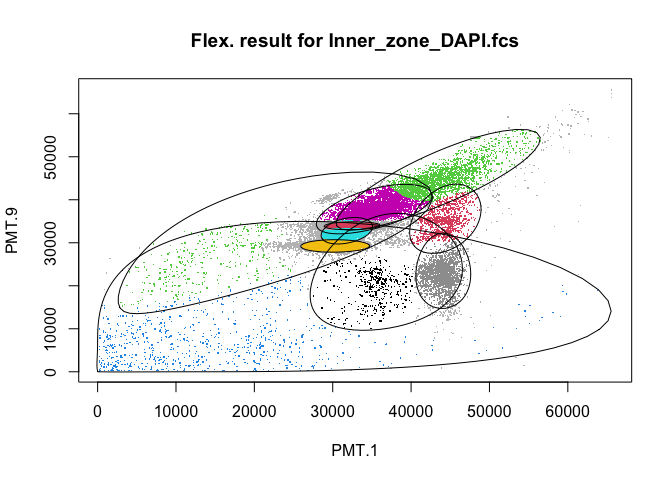
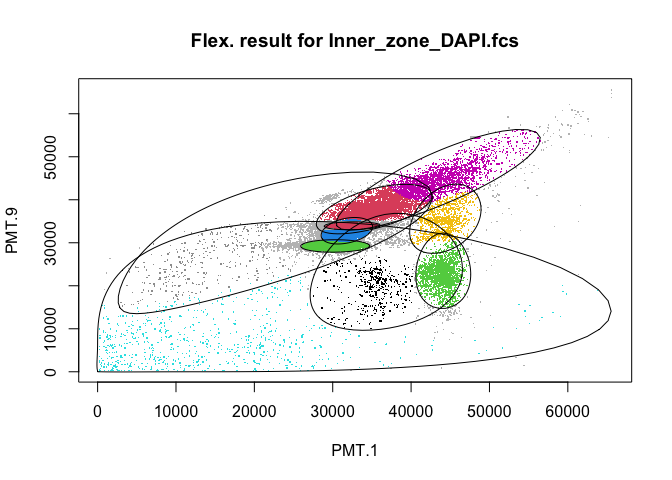
correct Monte Carlo Integration

diff --git a/workflow/04a-GMM-for-Z-project.md b/workflow/04a-GMM-for-Z-project.md
@@ -1,6 +1,6 @@
 04a-GMM for Z-project
 ================
-Compiled at 2023-11-15 21:34:49 UTC
+Compiled at 2023-11-19 18:54:07 UTC
 
 ``` r
 here::i_am(paste0(params$name, ".Rmd"), uuid = "9d6a84ea-ebe8-4073-bfe1-9e2529a9d667")
@@ -312,42 +312,53 @@ GMMroc <- function(data,gating_data,dimension,CI){
   
   data1 <- maha
   
-  roc.points <- data.frame(cell=NA,volume=NA)
+  #randomly sample points
+  set.seed(123)
+  num_points <- 100000
   
+  random_points <- runif(num_points*dimension,min=200,max=65535) %>% round(2)
+  random_data <- matrix(random_points,ncol=dimension,nrow=num_points)
+  
+  #maha matrics for random points
+  random_maha <- matrix(NA,nrow=num_points,ncol=n_clusters)
+  for (i in 1:num_points){
+    for(j in 1:n_clusters){
+      random_maha[i,j] <- mahalanobis(random_data[i,],mu[,j],sigma[[j]])
+    }
+  }
+  
+  random_maha <- as.data.frame(random_maha)
+  roc.points <- data.frame()
+  
+  #performance at diff. alpha
   for (alpha in CI){
     threshold <- qinv.chisq(alpha,df=dimension)
-  
+    
+    # cell
     for (cell in 1:ncells){
       rv <- data1[cell,1:ncol(data1)-1]
       if(all(rv>threshold)) {data1$Cluster[cell] <- NA}
       else {data1$Cluster[cell] <- which.min(rv)}
     }
   
-    result <- base::table(data1$Cluster) %>% as.data.frame()
-    sum1 <- sum(result$Freq)
+    result1 <- base::table(data1$Cluster) %>% as.data.frame()
+    sum1 <- sum(result1$Freq)
+    
+    # volume
+    for (cell in 1:num_points){
+      rv <- random_maha[cell,1:ncol(random_maha)-1]
+      if(all(rv>threshold)) {random_maha$Cluster[cell] <- NA}
+      else {random_maha$Cluster[cell] <- which.min(rv)}
+    }
   
-    eigen <- matrix(NA,nrow=length(sigma),ncol=dimension)
-    for (i in 1:length(sigma)){
-      eigen[i,] <- eigen(sigma[[i]])$values
-    }
-    eigen <- eigen[-1,]
+    result2 <- base::table(random_maha$Cluster) %>% as.data.frame()
+    sum2 <- sum(result2$Freq)/num_points*(65535-200)^dimension
     
     
-    if(length(sigma)>2){
-    area <- matrix(NA,nrow=nrow(eigen),ncol=1)
-    for (i in 1:nrow(eigen)){
-      area[i,1] <- pi*sqrt(eigen[i,1]*eigen[i,2])*threshold}
-    }
-    else {area <- pi*sqrt(eigen[1]*eigen[2])*threshold}
-    
-    
-    area <- as.data.frame(area)
-    sum2 <- sum(area)
-    sum.roc <- cbind(cell=sum1,volume=sum2)
-    
-    roc.points <- rbind(roc.points,sum.roc)
+    results <- cbind(cell=sum1,volume=sum2) %>% as.data.frame()
+    roc.points <- rbind(roc.points,results)
   }
-  result <- list(maha.matrix=maha,roc.table=roc.points)
+  result <- list(maha.matrix=data1,roc.table=roc.points)
   return(result)
 }
 ```
@@ -973,9 +984,7 @@ for (i in 1:5){
 ### for points
 
 ``` r
-flowClust_roc <- function(data,gating_data,dimension,alpha){
-  
-  w <- gating_data@w
+flowClust_roc <- function(data,gating_data,dimension,CI){
   
   # Box-Cox trans
   lambda <- gating_data@lambda
@@ -1004,7 +1013,7 @@ flowClust_roc <- function(data,gating_data,dimension,alpha){
     }
   }
   
-  data1 <- maha_data[,2:n_clusters] %>% as.data.frame()
+  data1 <- as.data.frame(maha_data)
   
   #randomly sample points
   set.seed(123)
@@ -1014,33 +1023,42 @@ flowClust_roc <- function(data,gating_data,dimension,alpha){
   random_boxcox <- flowClust::box(random_points,lambda) %>% round(2)
   random_data <- matrix(random_boxcox,ncol=dimension,nrow=num_points)
   
-  random_value <- data.frame()
-  weight_pdf <- c()
-  
-  #compute pdf value of mix-t
+  #maha matrics for random points
+  random_maha <- matrix(NA,nrow=num_points,ncol=n_clusters)
   for (i in 1:num_points){
-    for (j in 1:length(sigma)){
-      pdf <- mvtnorm::dmvt(random_data[i,],delta=mu[,j],sigma=sigma[[j]],df=4,log=F)
-      weight_pdf[j] <- pdf*w[j]
-      }
-    random_value[i,1] <- sum(weight_pdf)
+    for(j in 1:n_clusters){
+      random_maha[i,j] <- mahalanobis(random_data[i,],mu[,j],sigma[[j]])
     }
+  }
   
-  adjust_value <- random_value*(max(random_boxcox)-min(random_boxcox))^dimension
-  roc.points <- data.frame(cell=NA,volume=NA)
+  random_maha <- as.data.frame(random_maha)
+  roc.points <- data.frame()
   
   #performance at diff. alpha
-  for (alpha in c(0.1,0.9)){
+  for (alpha in CI){
     threshold <- dimension*qf(alpha,dimension,4)
     
-    # volume
-    inside_distribution <- c()
-    for (i in 1:num_points){
-      if(adjust_value[i,1]>threshold){inside_distribution[i]<-0}
-      else {inside_distribution[i]<-1}
+    # cell
+    for (cell in 1:ncells){
+      rv <- data1[cell,1:ncol(data1)-1]
+      if(all(rv>threshold)) {data1$Cluster[cell] <- NA}
+      else {data1$Cluster[cell] <- which.min(rv)}
     }
-    sum1 <- trunc(sum(inside_distribution)/num_points*ncells)
-    sum2 <- sum(inside_distribution)/num_points*(65535-200)^dimension
+  
+    result1 <- base::table(data1$Cluster) %>% as.data.frame()
+    sum1 <- sum(result1$Freq)
+    
+    # volume
+    for (cell in 1:num_points){
+      rv <- random_maha[cell,1:ncol(random_maha)-1]
+      if(all(rv>threshold)) {random_maha$Cluster[cell] <- NA}
+      else {random_maha$Cluster[cell] <- which.min(rv)}
+    }
+  
+    result2 <- base::table(random_maha$Cluster) %>% as.data.frame()
+    sum2 <- sum(result2$Freq)/num_points*(65535-200)^dimension
+    
+    
     results <- cbind(cell=sum1,volume=sum2) %>% as.data.frame()
     roc.points <- rbind(roc.points,results)
   }
@@ -1056,13 +1074,9 @@ DAPI_fC_fix_roc <- list()
 for (i in 1:5){
   name <- names(DAPI)[i]
   data0 <- DAPI[[name]]@exprs[,c(11,27)]
-  gating_data <- DAPI_fC_flex[[name]]
+  gating_data <- DAPI_fC_fix[[name]]
   alpha <- seq(0.01,0.99,by=0.01)
-  DAPI_fC_flex_roc[[name]] <- flowClust_roc(data0,gating_data,2,alpha)
-  
-  #trans=0: no box-cox
-  #test <- flowClust(DAPI[[i]], varNames = c("PMT.1","PMT.9"), K=9,trans = 0)
-  #DAPI_fC_fix_roc[[i]] <- flowClust_roc(data0,test,alpha)
+  DAPI_fC_fix_roc[[name]] <- flowClust_roc(data0,gating_data,2,alpha)
 }
 ```
 
